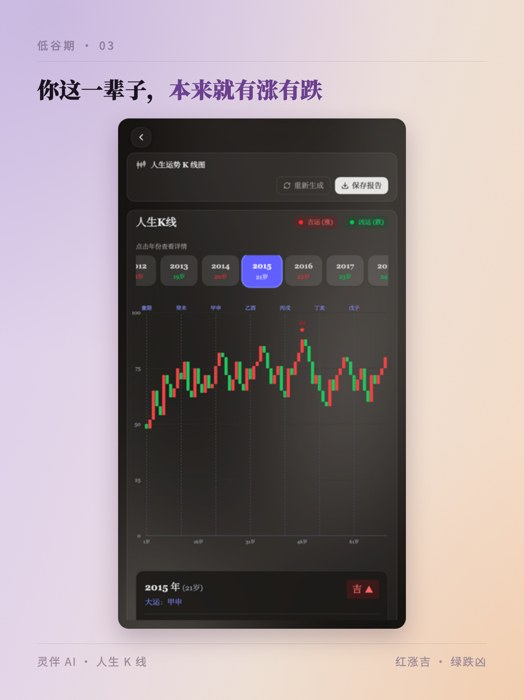
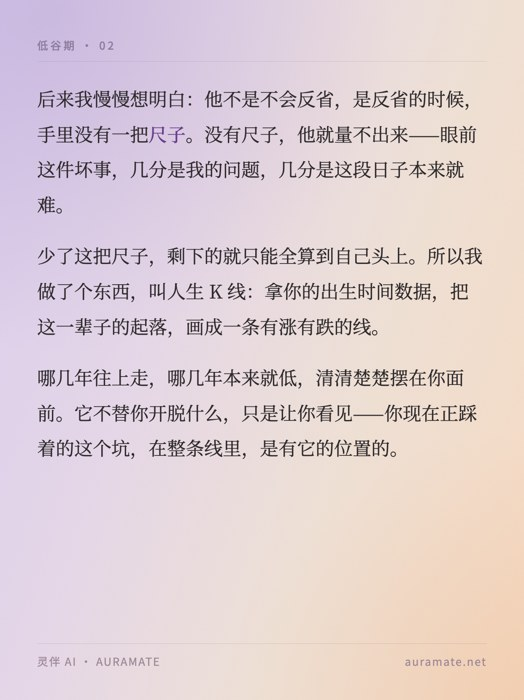
demo 补成真实长度：叙事随笔 6 张 / 图鉴自测 12 张
用户指出「不是所有的图文都只能三张图」。确实 —— skill 里每类张数本来
就不一样（图鉴 8-12、知识解析 6-9、节令 4-8），但 demo 八类全做成 3 张，
等于在教「图文就是 3 张」。demo 会被当范本，范本的形状本身就是规则。

- 叙事随笔补成完整 6 张：封面/痛点/reframe+功能/产品主视图/产品细节/落点
- 图鉴自测补成完整 12 张：封面 + 十种形态 + 收尾，顺序按五对排
  （并肩/往外给/拿到/管着/托着），十个形态各用各的真实帧
- README 加张数表，每节标明完整张数 vs 这里展示几张
- 主 skill 加「张数按类型走别形成习惯」+ 这次翻车记录
- 图鉴 skill 加「这类不能压成 3-4 张」及原因

顺带修 slide-gif.js 一个真 bug：GIF_WIDTH 强制宽度时，靠缩宽降档的梯级
退化成完全相同的参数，白跑两遍 ffmpeg。加了去重。

形态帧素材转 jpg（png 516K → 90K），docs/ 13M → 9.9M。

diff --git a/docs/demo/01-reframe-5.html b/docs/demo/01-reframe-5.html
@@ -1,7 +1,10 @@
 <!doctype html><html><head><meta charset=utf-8><style>
-/* 模板 A · 渐变编辑风 —— 正文页  (v2, 2026-08-10)
-   正文统一 44px / lh 1.9。每张写满 2-3 段，别一段一张、别大片留白。
-   .em 深梅紫强调；.en 英文词红棕斜体；.last 收尾段加粗一档。 */
+/* 模板 A · 渐变编辑风 —— 产品截图页  (v2, 2026-08-10)
+   head 52px 说明标题 + 真实产品截图卡 + foot 数据标注。
+   截图必须完整、铺满、干净（无违禁词露出）。
+   portrait 手机图 → .shot{height:100%}（默认）
+   landscape/近方图 → .shot{width:100%;height:auto} + .shot img{width:100%;height:auto}
+   ⚠ kicker/foot 用第一人称叙述，绝不写「真实产品截图」「产品 demo」。 */
 @import url('https://fonts.googleapis.com/css2?family=Noto+Serif+SC:wght@400;500;700;900&family=Noto+Sans+SC:wght@400;500&display=swap');
 *{margin:0;padding:0;box-sizing:border-box;}
 html,body{width:1242px;height:1660px;font-family:'Noto Serif SC','Songti SC',serif;color:#2b2620;overflow:hidden;}
@@ -15,20 +18,16 @@ html,body{width:1242px;height:1660px;font-family:'Noto Serif SC','Songti SC',ser
 .frame > *{position:relative;z-index:1;}
 .kicker{font-family:'Noto Sans SC','PingFang SC',sans-serif;font-size:26px;font-weight:500;letter-spacing:0.2em;color:#8d7d9e;
   padding-bottom:20px;border-bottom:1px solid rgba(90,70,95,0.16);}
-.body{flex:1;font-size:44px;font-weight:400;line-height:1.9;color:#302c2e;margin-top:46px;}
-.body p{margin-bottom:38px;}
-.body p:last-child{margin-bottom:0;}
-.body .em{color:#6b3f8f;font-weight:500;}
-.body .en{color:#8a5a52;font-style:italic;}
-.body .last{font-weight:500;}
-.foot{padding-top:22px;border-top:1px solid rgba(90,70,95,0.18);display:flex;justify-content:space-between;align-items:center;
+.head{font-size:52px;font-weight:900;line-height:1.34;color:#1a1420;margin-top:30px;}
+.head .em{color:#6b3f8f;}
+.shotwrap{flex:1;display:flex;align-items:center;justify-content:center;min-height:0;margin-top:34px;}
+.shot{height:100%;border-radius:26px;overflow:hidden;border:1px solid rgba(90,70,95,0.26);box-shadow:0 22px 54px rgba(60,40,70,0.26);}
+.shot img{height:100%;display:block;}
+.foot{margin-top:34px;padding-top:22px;border-top:1px solid rgba(90,70,95,0.18);display:flex;justify-content:space-between;align-items:center;
   font-family:'Noto Sans SC','PingFang SC',sans-serif;font-size:26px;color:#9e8a99;letter-spacing:0.1em;}
 </style></head><body><div class="frame">
-<div class="kicker">低谷期 · 02</div>
-<div class="body">
-  <p>后来我慢慢想明白：他不是不会反省，是反省的时候，手里没有一把<span class="em">尺子</span>。没有尺子，他就量不出来——眼前这件坏事，几分是我的问题，几分是这段日子本来就难。</p>
-  <p>少了这把尺子，剩下的就只能全算到自己头上。所以我做了个东西，叫人生 K 线：拿你的出生时间数据，把这一辈子的起落，画成一条有涨有跌的线。</p>
-  <p>哪几年往上走，哪几年本来就低，清清楚楚摆在你面前。它不替你开脱什么，只是让你看见——你现在正踩着的这个坑，在整条线里，是有它的位置的。</p>
-</div>
-<div class="foot"><span>灵伴 AI · AURAMATE</span><span>auramate.net</span></div>
+<div class="kicker">低谷期 · 04</div>
+<div class="head">点开那一年，<span class="em">它把起落讲给你听</span></div>
+<div class="shotwrap"><div class="shot"><img src="assets/pf-detail.png"/></div></div>
+<div class="foot"><span>灵伴 AI · 人生 K 线</span><span>开盘 · 收盘 · 最高 · 最低</span></div>
 </div></body></html>

diff --git a/docs/demo/01-reframe-4.html b/docs/demo/01-reframe-4.html
@@ -1,7 +1,10 @@
 <!doctype html><html><head><meta charset=utf-8><style>
-/* 模板 A · 渐变编辑风 —— 正文页  (v2, 2026-08-10)
-   正文统一 44px / lh 1.9。每张写满 2-3 段，别一段一张、别大片留白。
-   .em 深梅紫强调；.en 英文词红棕斜体；.last 收尾段加粗一档。 */
+/* 模板 A · 渐变编辑风 —— 产品截图页  (v2, 2026-08-10)
+   head 52px 说明标题 + 真实产品截图卡 + foot 数据标注。
+   截图必须完整、铺满、干净（无违禁词露出）。
+   portrait 手机图 → .shot{height:100%}（默认）
+   landscape/近方图 → .shot{width:100%;height:auto} + .shot img{width:100%;height:auto}
+   ⚠ kicker/foot 用第一人称叙述，绝不写「真实产品截图」「产品 demo」。 */
 @import url('https://fonts.googleapis.com/css2?family=Noto+Serif+SC:wght@400;500;700;900&family=Noto+Sans+SC:wght@400;500&display=swap');
 *{margin:0;padding:0;box-sizing:border-box;}
 html,body{width:1242px;height:1660px;font-family:'Noto Serif SC','Songti SC',serif;color:#2b2620;overflow:hidden;}
@@ -15,20 +18,16 @@ html,body{width:1242px;height:1660px;font-family:'Noto Serif SC','Songti SC',ser
 .frame > *{position:relative;z-index:1;}
 .kicker{font-family:'Noto Sans SC','PingFang SC',sans-serif;font-size:26px;font-weight:500;letter-spacing:0.2em;color:#8d7d9e;
   padding-bottom:20px;border-bottom:1px solid rgba(90,70,95,0.16);}
-.body{flex:1;font-size:44px;font-weight:400;line-height:1.9;color:#302c2e;margin-top:46px;}
-.body p{margin-bottom:38px;}
-.body p:last-child{margin-bottom:0;}
-.body .em{color:#6b3f8f;font-weight:500;}
-.body .en{color:#8a5a52;font-style:italic;}
-.body .last{font-weight:500;}
-.foot{padding-top:22px;border-top:1px solid rgba(90,70,95,0.18);display:flex;justify-content:space-between;align-items:center;
+.head{font-size:52px;font-weight:900;line-height:1.34;color:#1a1420;margin-top:30px;}
+.head .em{color:#6b3f8f;}
+.shotwrap{flex:1;display:flex;align-items:center;justify-content:center;min-height:0;margin-top:34px;}
+.shot{height:100%;border-radius:26px;overflow:hidden;border:1px solid rgba(90,70,95,0.26);box-shadow:0 22px 54px rgba(60,40,70,0.26);}
+.shot img{height:100%;display:block;}
+.foot{margin-top:34px;padding-top:22px;border-top:1px solid rgba(90,70,95,0.18);display:flex;justify-content:space-between;align-items:center;
   font-family:'Noto Sans SC','PingFang SC',sans-serif;font-size:26px;color:#9e8a99;letter-spacing:0.1em;}
 </style></head><body><div class="frame">
-<div class="kicker">低谷期 · 02</div>
-<div class="body">
-  <p>后来我慢慢想明白：他不是不会反省，是反省的时候，手里没有一把<span class="em">尺子</span>。没有尺子，他就量不出来——眼前这件坏事，几分是我的问题，几分是这段日子本来就难。</p>
-  <p>少了这把尺子，剩下的就只能全算到自己头上。所以我做了个东西，叫人生 K 线：拿你的出生时间数据，把这一辈子的起落，画成一条有涨有跌的线。</p>
-  <p>哪几年往上走，哪几年本来就低，清清楚楚摆在你面前。它不替你开脱什么，只是让你看见——你现在正踩着的这个坑，在整条线里，是有它的位置的。</p>
-</div>
-<div class="foot"><span>灵伴 AI · AURAMATE</span><span>auramate.net</span></div>
+<div class="kicker">低谷期 · 03</div>
+<div class="head">你这一辈子，<span class="em">本来就有涨有跌</span></div>
+<div class="shotwrap"><div class="shot"><img src="assets/pf-chart.png"/></div></div>
+<div class="foot"><span>灵伴 AI · 人生 K 线</span><span>红涨吉 · 绿跌凶</span></div>
 </div></body></html>

diff --git a/docs/demo/01-reframe-6.html b/docs/demo/01-reframe-6.html
@@ -24,11 +24,11 @@ html,body{width:1242px;height:1660px;font-family:'Noto Serif SC','Songti SC',ser
 .foot{padding-top:22px;border-top:1px solid rgba(90,70,95,0.18);display:flex;justify-content:space-between;align-items:center;
   font-family:'Noto Sans SC','PingFang SC',sans-serif;font-size:26px;color:#9e8a99;letter-spacing:0.1em;}
 </style></head><body><div class="frame">
-<div class="kicker">低谷期 · 02</div>
+<div class="kicker">低谷期 · 05</div>
 <div class="body">
-  <p>后来我慢慢想明白：他不是不会反省，是反省的时候，手里没有一把<span class="em">尺子</span>。没有尺子，他就量不出来——眼前这件坏事，几分是我的问题，几分是这段日子本来就难。</p>
-  <p>少了这把尺子，剩下的就只能全算到自己头上。所以我做了个东西，叫人生 K 线：拿你的出生时间数据，把这一辈子的起落，画成一条有涨有跌的线。</p>
-  <p>哪几年往上走，哪几年本来就低，清清楚楚摆在你面前。它不替你开脱什么，只是让你看见——你现在正踩着的这个坑，在整条线里，是有它的位置的。</p>
+  <p>向内求，本来是件好事。可一旦过了头，就成了没完没了的自我审判——把系统的、时运的、别人的问题，一股脑收进自己身上，判自己有罪。</p>
+  <p>这套东西给你的，从来不是一张免罪符，让你把责任推给命。它给的是一个<span class="em">坐标</span>：让你在最难、最想骂自己的那一刻，抬头看一眼——哦，我这会儿正站在低处，这段本来就难，它会过去。</p>
+  <p><span class="last">低谷这东西，说到底不是你坏了，是你正走在一段低的运里。这条线迟早会拐头往上。你要做的，只是别在最难的时候，还亲手判自己有罪。</span></p>
 </div>
 <div class="foot"><span>灵伴 AI · AURAMATE</span><span>auramate.net</span></div>
 </div></body></html>

diff --git a/docs/demo/03-tujian-12.html b/docs/demo/03-tujian-12.html
@@ -23,9 +23,9 @@ html,body{width:1242px;height:1660px;background:#eee9f5;font-family:'Noto Sans S
 .foot{display:flex;justify-content:space-between;align-items:flex-end;padding-top:26px;border-top:1px dashed #c7b8de;
   font-size:28px;font-weight:900;color:#7a55a6;letter-spacing:0.1em;}
 </style></head><body><div class="frame">
-<div class="kicker">{{系列名}} · {{序号}} / {{总数}}</div>
-<div class="name">{{形态名}}</div>
-<div class="state">{{一句具体状态，不是定义}}</div>
-<div class="orbwrap" id="slot"><img src="assets/form-{{id}}.jpg"/></div>
+<div class="kicker">十种状态 · 收尾</div>
+<div class="name">每天换一种</div>
+<div class="state">它读你的出生时间数据，自己判断今天是哪一种。<br/>不用填问卷，也不用选心情。</div>
+<div class="orbwrap" id="slot"><img src="assets/forms-strip.jpg"/></div>
 <div class="foot"><span>灵伴 AI · AURAMATE</span><span>auramate.net</span></div>
 </div></body></html>

diff --git a/docs/demo/03-tujian-03.html b/docs/demo/03-tujian-03.html
@@ -23,9 +23,9 @@ html,body{width:1242px;height:1660px;background:#eee9f5;font-family:'Noto Sans S
 .foot{display:flex;justify-content:space-between;align-items:flex-end;padding-top:26px;border-top:1px dashed #c7b8de;
   font-size:28px;font-weight:900;color:#7a55a6;letter-spacing:0.1em;}
 </style></head><body><div class="frame">
-<div class="kicker">十种状态 · 06 / 10</div>
-<div class="name">顿悟日</div>
-<div class="state">表面上没动静，脑子里一直在转。<br/>灵感是这天冒出来的。</div>
-<div class="orbwrap" id="slot"><img src="assets/form-dunwu.png"/></div>
+<div class="kicker">十种状态 · 03 / 10</div>
+<div class="name">分享日</div>
+<div class="state">嘴松，钱也松。<br/>想请客、想买单、想把知道的都说出去。</div>
+<div class="orbwrap" id="slot"><img src="assets/form-fenxiang.jpg"/></div>
 <div class="foot"><span>灵伴 AI · AURAMATE</span><span>auramate.net</span></div>
 </div></body></html>

diff --git a/docs/demo/03-tujian-04.html b/docs/demo/03-tujian-04.html
@@ -23,9 +23,9 @@ html,body{width:1242px;height:1660px;background:#eee9f5;font-family:'Noto Sans S
 .foot{display:flex;justify-content:space-between;align-items:flex-end;padding-top:26px;border-top:1px dashed #c7b8de;
   font-size:28px;font-weight:900;color:#7a55a6;letter-spacing:0.1em;}
 </style></head><body><div class="frame">
-<div class="kicker">{{系列名}} · {{序号}} / {{总数}}</div>
-<div class="name">{{形态名}}</div>
-<div class="state">{{一句具体状态，不是定义}}</div>
-<div class="orbwrap" id="slot"><img src="assets/form-{{id}}.jpg"/></div>
+<div class="kicker">十种状态 · 04 / 10</div>
+<div class="name">美食日</div>
+<div class="state">慢慢来，做点自己喜欢的事。<br/>力气是往外散的，但散得温和。</div>
+<div class="orbwrap" id="slot"><img src="assets/form-meishi.jpg"/></div>
 <div class="foot"><span>灵伴 AI · AURAMATE</span><span>auramate.net</span></div>
 </div></body></html>

diff --git a/docs/demo/03-tujian-10.html b/docs/demo/03-tujian-10.html
@@ -23,9 +23,9 @@ html,body{width:1242px;height:1660px;background:#eee9f5;font-family:'Noto Sans S
 .foot{display:flex;justify-content:space-between;align-items:flex-end;padding-top:26px;border-top:1px dashed #c7b8de;
   font-size:28px;font-weight:900;color:#7a55a6;letter-spacing:0.1em;}
 </style></head><body><div class="frame">
-<div class="kicker">{{系列名}} · {{序号}} / {{总数}}</div>
-<div class="name">{{形态名}}</div>
-<div class="state">{{一句具体状态，不是定义}}</div>
-<div class="orbwrap" id="slot"><img src="assets/form-{{id}}.jpg"/></div>
+<div class="kicker">十种状态 · 10 / 10</div>
+<div class="name">学习日</div>
+<div class="state">有人托着你，事情自己顺。<br/>适合学新东西、接别人递过来的。</div>
+<div class="orbwrap" id="slot"><img src="assets/form-xuexi.jpg"/></div>
 <div class="foot"><span>灵伴 AI · AURAMATE</span><span>auramate.net</span></div>
 </div></body></html>

diff --git a/docs/demo/03-tujian-05.html b/docs/demo/03-tujian-05.html
@@ -23,9 +23,9 @@ html,body{width:1242px;height:1660px;background:#eee9f5;font-family:'Noto Sans S
 .foot{display:flex;justify-content:space-between;align-items:flex-end;padding-top:26px;border-top:1px dashed #c7b8de;
   font-size:28px;font-weight:900;color:#7a55a6;letter-spacing:0.1em;}
 </style></head><body><div class="frame">
-<div class="kicker">{{系列名}} · {{序号}} / {{总数}}</div>
-<div class="name">{{形态名}}</div>
-<div class="state">{{一句具体状态，不是定义}}</div>
-<div class="orbwrap" id="slot"><img src="assets/form-{{id}}.jpg"/></div>
+<div class="kicker">十种状态 · 05 / 10</div>
+<div class="name">发疯日</div>
+<div class="state">憋不住了，非得说点什么。<br/>同样是往外，这天是炸开的。</div>
+<div class="orbwrap" id="slot"><img src="assets/form-fafeng.jpg"/></div>
 <div class="foot"><span>灵伴 AI · AURAMATE</span><span>auramate.net</span></div>
 </div></body></html>

diff --git a/docs/demo/03-tujian-02.html b/docs/demo/03-tujian-02.html
@@ -23,9 +23,9 @@ html,body{width:1242px;height:1660px;background:#eee9f5;font-family:'Noto Sans S
 .foot{display:flex;justify-content:space-between;align-items:flex-end;padding-top:26px;border-top:1px dashed #c7b8de;
   font-size:28px;font-weight:900;color:#7a55a6;letter-spacing:0.1em;}
 </style></head><body><div class="frame">
-<div class="kicker">{{系列名}} · {{序号}} / {{总数}}</div>
-<div class="name">{{形态名}}</div>
-<div class="state">{{一句具体状态，不是定义}}</div>
-<div class="orbwrap" id="slot"><img src="assets/form-{{id}}.jpg"/></div>
+<div class="kicker">十种状态 · 02 / 10</div>
+<div class="name">合作日</div>
+<div class="state">想找的人都在线，约得上。<br/>这天谈事比一个人闷头干强。</div>
+<div class="orbwrap" id="slot"><img src="assets/form-hezuo.jpg"/></div>
 <div class="foot"><span>灵伴 AI · AURAMATE</span><span>auramate.net</span></div>
 </div></body></html>

diff --git a/docs/demo/03-tujian-11.html b/docs/demo/03-tujian-11.html
@@ -23,9 +23,9 @@ html,body{width:1242px;height:1660px;background:#eee9f5;font-family:'Noto Sans S
 .foot{display:flex;justify-content:space-between;align-items:flex-end;padding-top:26px;border-top:1px dashed #c7b8de;
   font-size:28px;font-weight:900;color:#7a55a6;letter-spacing:0.1em;}
 </style></head><body><div class="frame">
-<div class="kicker">{{系列名}} · {{序号}} / {{总数}}</div>
-<div class="name">{{形态名}}</div>
-<div class="state">{{一句具体状态，不是定义}}</div>
-<div class="orbwrap" id="slot"><img src="assets/form-{{id}}.jpg"/></div>
+<div class="kicker">十种状态 · 11 / 10</div>
+<div class="name">顿悟日</div>
+<div class="state">表面上没动静，脑子里一直在转。<br/>灵感是这天冒出来的。</div>
+<div class="orbwrap" id="slot"><img src="assets/form-dunwu.jpg"/></div>
 <div class="foot"><span>灵伴 AI · AURAMATE</span><span>auramate.net</span></div>
 </div></body></html>

diff --git a/docs/demo/03-tujian-06.html b/docs/demo/03-tujian-06.html
@@ -23,9 +23,9 @@ html,body{width:1242px;height:1660px;background:#eee9f5;font-family:'Noto Sans S
 .foot{display:flex;justify-content:space-between;align-items:flex-end;padding-top:26px;border-top:1px dashed #c7b8de;
   font-size:28px;font-weight:900;color:#7a55a6;letter-spacing:0.1em;}
 </style></head><body><div class="frame">
-<div class="kicker">{{系列名}} · {{序号}} / {{总数}}</div>
-<div class="name">{{形态名}}</div>
-<div class="state">{{一句具体状态，不是定义}}</div>
-<div class="orbwrap" id="slot"><img src="assets/form-{{id}}.jpg"/></div>
+<div class="kicker">十种状态 · 06 / 10</div>
+<div class="name">搞钱日</div>
+<div class="state">坐得住，一笔一笔推进度。<br/>拿到的是你自己挣的那份。</div>
+<div class="orbwrap" id="slot"><img src="assets/form-gaoqian.jpg"/></div>
 <div class="foot"><span>灵伴 AI · AURAMATE</span><span>auramate.net</span></div>
 </div></body></html>

diff --git a/docs/demo/03-tujian-07.html b/docs/demo/03-tujian-07.html
@@ -23,9 +23,9 @@ html,body{width:1242px;height:1660px;background:#eee9f5;font-family:'Noto Sans S
 .foot{display:flex;justify-content:space-between;align-items:flex-end;padding-top:26px;border-top:1px dashed #c7b8de;
   font-size:28px;font-weight:900;color:#7a55a6;letter-spacing:0.1em;}
 </style></head><body><div class="frame">
-<div class="kicker">{{系列名}} · {{序号}} / {{总数}}</div>
-<div class="name">{{形态名}}</div>
-<div class="state">{{一句具体状态，不是定义}}</div>
-<div class="orbwrap" id="slot"><img src="assets/form-{{id}}.jpg"/></div>
+<div class="kicker">十种状态 · 07 / 10</div>
+<div class="name">捡漏日</div>
+<div class="state">没打算要，它自己掉下来。<br/>眼疾手快接住的那种。</div>
+<div class="orbwrap" id="slot"><img src="assets/form-jianlou.jpg"/></div>
 <div class="foot"><span>灵伴 AI · AURAMATE</span><span>auramate.net</span></div>
 </div></body></html>
